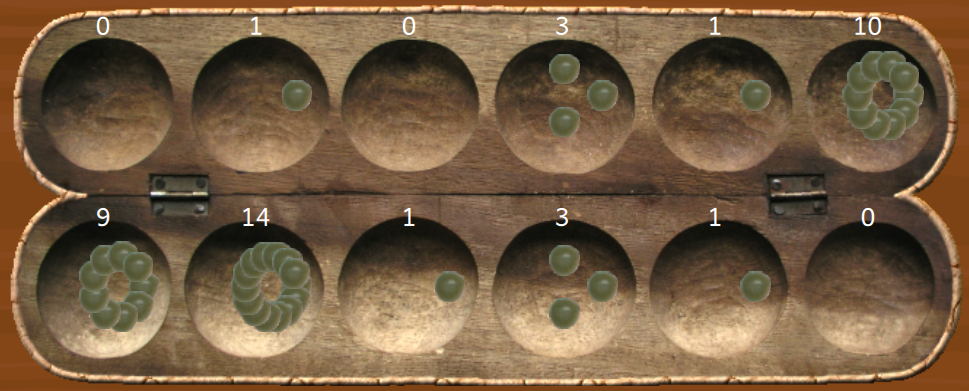
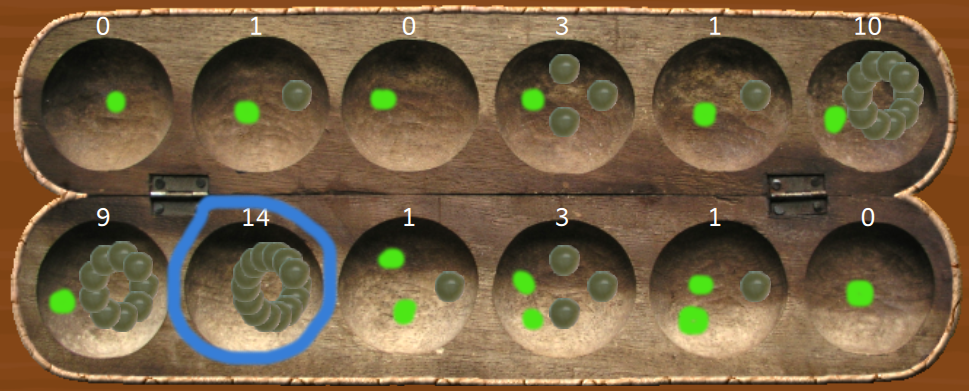
Oware: Fix images and text for instructions

diff --git a/src/activities/oware/oware.js b/src/activities/oware/oware.js
@@ -42,7 +42,7 @@ var tutorialInstructions = [{
         "instructionImage": "qrc:/gcompris/src/activities/oware/resource/tutorial1.png"
     },
     {
-        "instruction": qsTr("In each turn, a player chooses one of their 6 houses. All seeds from that house are picked and dropped one in each house counter-clockwise from the house they chose, in a process called sowing. As in the image below the red seeds from the second house are picked and sown in next houses (blue seeds represent the sown seeds)."),
+        "instruction": qsTr("In each turn, a player chooses one of their 6 houses. All seeds from that house are picked and dropped one in each house counter-clockwise from the house they chose, in a process called sowing. As in the image below the blue seeds from the second house are picked and sown in next houses (yellow seeds represent the sown seeds)."),
         "instructionImage": "qrc:/gcompris/src/activities/oware/resource/tutorial2.png"
     },
     {

diff --git a/src/activities/oware/Oware.qml b/src/activities/oware/Oware.qml
@@ -144,7 +144,7 @@ ActivityBase {
                         property var nextMove
 
                         GCText {
-                            text: index
+                            text: value
                             color: "white"
                             anchors.top: parent.top
                             anchors.horizontalCenter: parent.horizontalCenter
